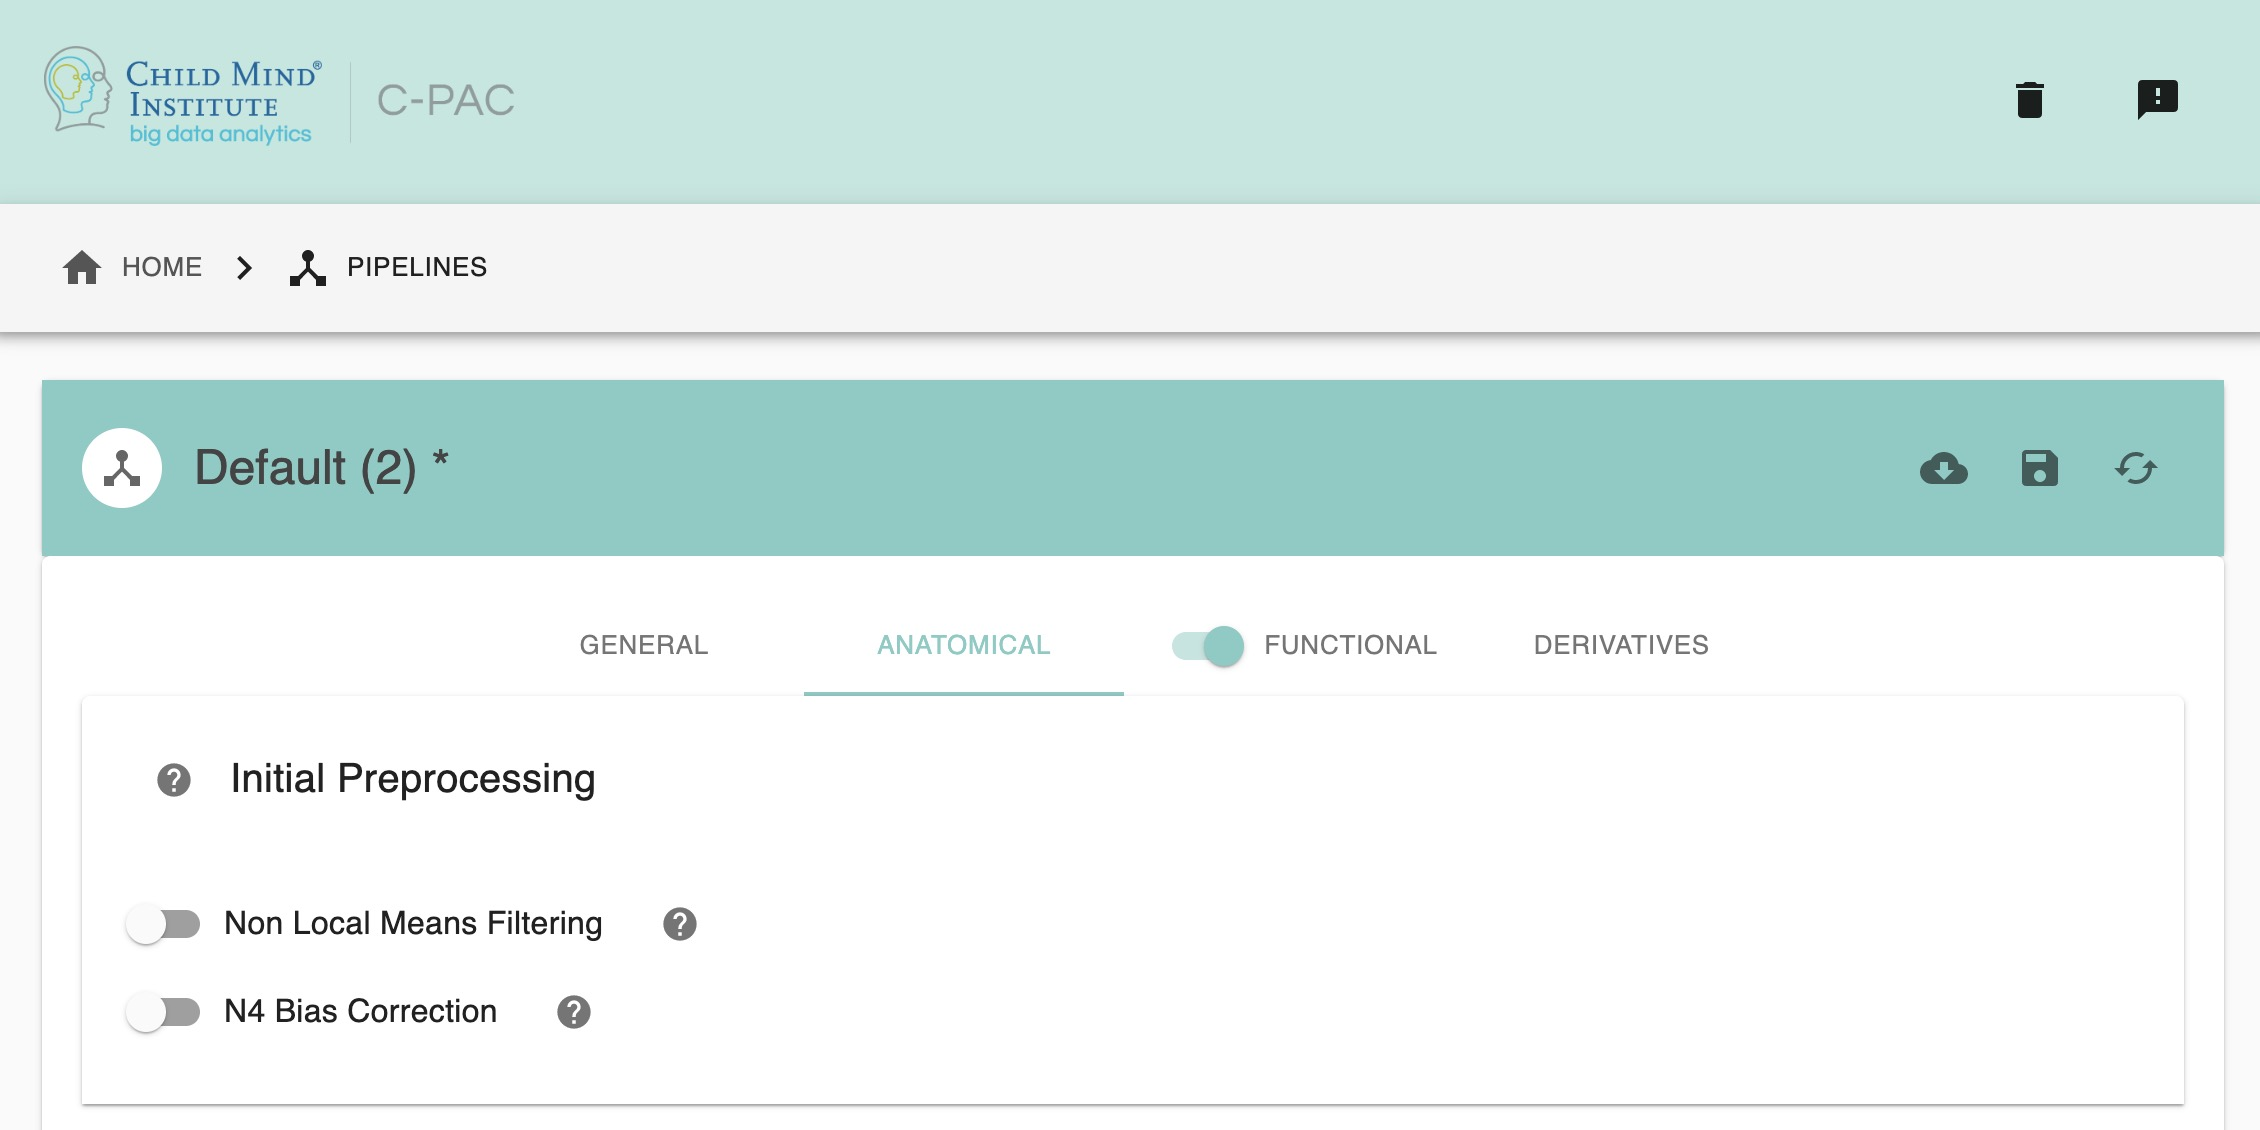
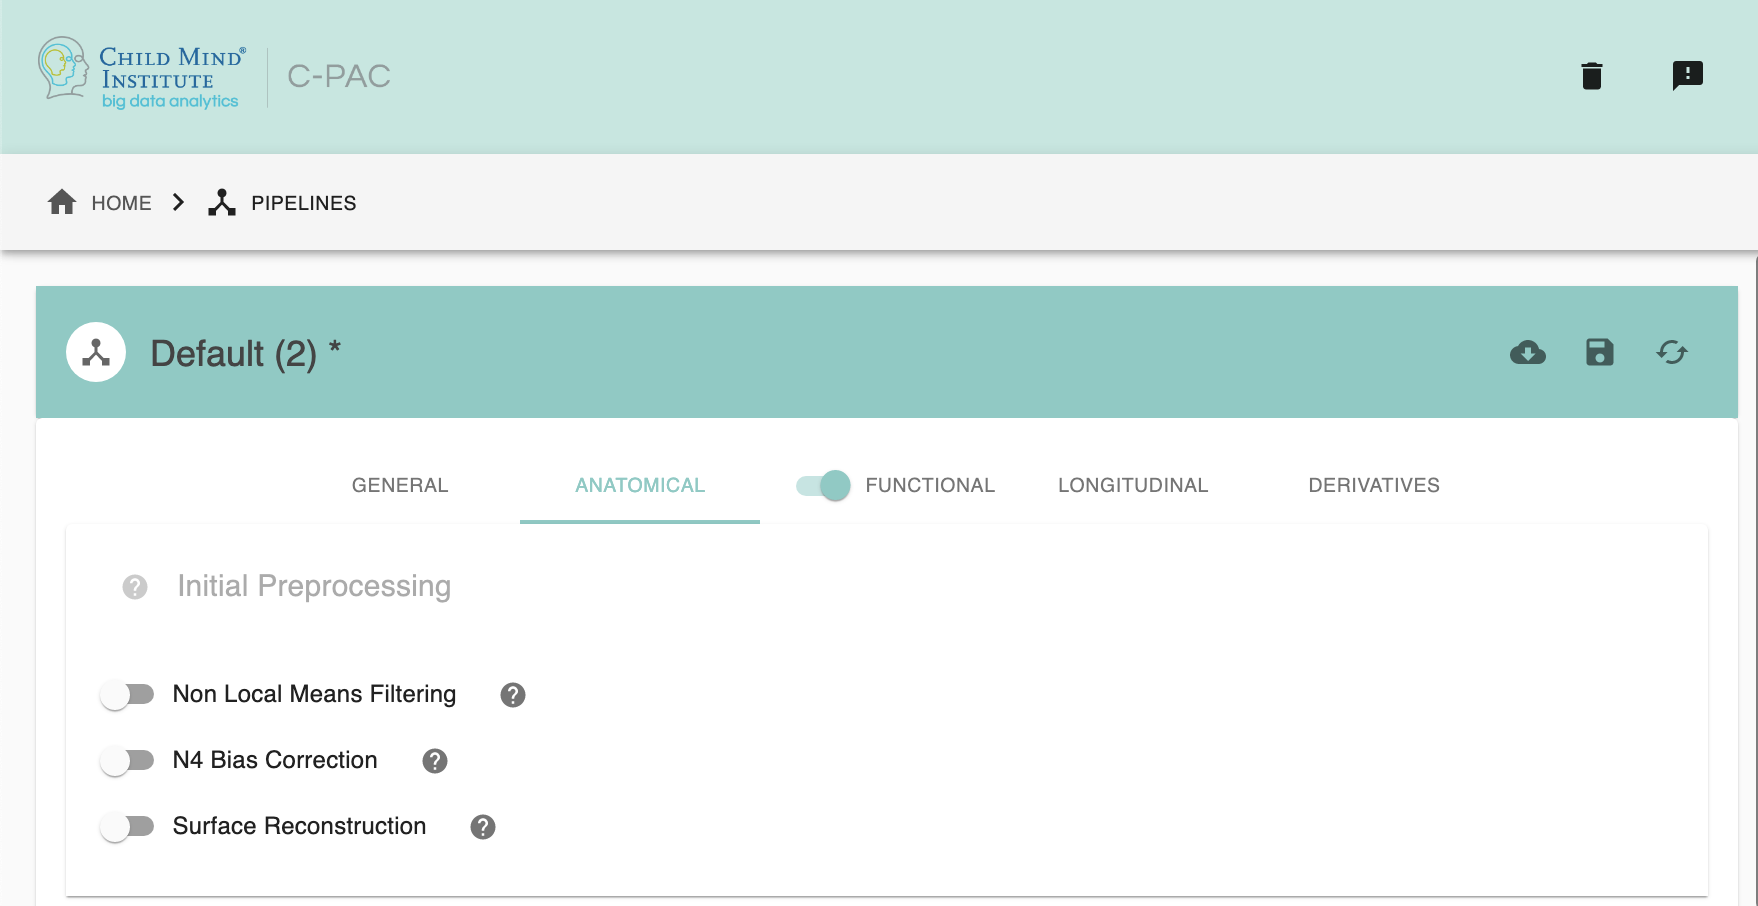
add surface option for initial, skullstrip, bbr wm source

diff --git a/docs/_sources/user/anat.rst b/docs/_sources/user/anat.rst
@@ -8,13 +8,13 @@
 Initial Preprocessing
 ^^^^^^^^^^^^^^^^^^^^^
 
-Initial preprocessing offers methods like `non-local means filtering <https://www.iro.umontreal.ca/~mignotte/IFT6150/Articles/Buades-NonLocal.pdf>`_ and `N4 bias field correction <https://www.ncbi.nlm.nih.gov/pmc/articles/PMC3071855/>`_ to preprocess anatomical images.
+Initial preprocessing offers methods like `non-local means filtering <https://www.iro.umontreal.ca/~mignotte/IFT6150/Articles/Buades-NonLocal.pdf>`_ , `N4 bias field correction <https://www.ncbi.nlm.nih.gov/pmc/articles/PMC3071855/>`_ and `Surface Reconstruction <https://pdfs.semanticscholar.org/0554/11f28a5e28c46c3f0079d397783afc721021.pdf>`_ to preprocess anatomical images.
 
 C-PAC provides options for configuring initial preprocessing - users can select:
 
 * `ANT's DenoiseImage <https://manpages.debian.org/experimental/ants/DenoiseImage.1.en.html>`_
 * `ANT's N4BiasFieldCorrection <http://manpages.ubuntu.com/manpages/trusty/man1/N4BiasFieldCorrection.1.html>`_
-
+* `FreeSurfer cortical reconstruction <https://surfer.nmr.mgh.harvard.edu/fswiki/recon-all>`_
 
 Configuring CPAC to run initial preprocessing:
 """"""""""""""""""""""""""""""""""""""""""""""
@@ -25,6 +25,7 @@ Configuring CPAC to run initial preprocessing:
 
 #. **N4 Bias Field Correction - [On,Off]:** ANTs N4BiasFieldCorrection - a variant of the popular N3 (nonparametric nonuniform normalization) retrospective bias correction algorithm. Default is Off.
 
+#. **Surface Reconstruction - [On,Off]:** FreeSurfer Cortical Surface Reconstruction - generate surface meshes from FreeSurfer. Default is Off.
 
 Skull-Stripping
 ^^^^^^^^^^^^^^^
@@ -36,6 +37,7 @@ C-PAC provides options for configuring skull-stripping - users can select:
 * FSL: `BET <https://fsl.fmrib.ox.ac.uk/fsl/fslwiki/BET/UserGuide>`_. Further parameters for each of these tools are configurable.
 * niworkflows-ants: `niworkflows's antsBrainExtraction <https://github.com/poldracklab/niworkflows/blob/master/niworkflows/anat/ants.py>`_
 * U-Net: U-Net is a Fully Convolutional Network (FCN) for image segmentation. Users can now select this option for brain extraction, especially optimal for non-human primate data.
+* FreeSurfer: `recon-all <https://surfer.nmr.mgh.harvard.edu/fswiki/recon-all>`_ -autorecon1 performs surface-based skull-stripping.
 * Providing their own brain mask for extraction
 
 Configuring CPAC to run Skull-Stripping:
@@ -47,7 +49,7 @@ Configuring CPAC to run Skull-Stripping:
 
 #. **Already skull-stripped - [On,Off]:** If inputs are already skull stripped (i.e. the structural input data is brain-only) then you can toggle this option to off.
 
-#. **Which tool for skull-stripping - [FSL, AFNI, niworkflows-ants]:** Choose if you’d like to use FSL BET, AFNI 3dSkullStrip, or run all options in parallel.
+#. **Which tool for skull-stripping - [FSL, AFNI, niworkflows-ants, U-Net, FreeSurfer]:** Choose if you’d like to use FSL BET, AFNI 3dSkullStrip, niworkflows-ants, U-Net, FreeSurfer or run all options in parallel.
 
 Configuring AFNI 3dSkullStrip options:
 """"""""""""""""""""""""""""""""""""""
@@ -335,15 +337,15 @@ Configuring CPAC to Run Anatomical Tissue Segmentation
 
 #. **The atlas segmentation images - [path]:** The number of specified segmentations should be identical to the number of atlas brain images. Clicking on the *+* icon to the right of the box here will bring up a dialog where you can define multiple paths to NifTIs containing the atlas segmentation image.  You may add multiple images to the box.  
 
-#. **CSF Label Value - [integer]:** Label value corresponding to CSF in multiatlas file. It is not necessary to change this values unless your CSF/GM/WM label values are different from `Freesurfer Color Lookup Table. <https://surfer.nmr.mgh.harvard.edu/fswiki/FsTutorial/AnatomicalROI/FreeSurferColorLUT>`_
+#. **CSF Label Value - [integer]:** Label value corresponding to CSF in multiatlas file. It is not necessary to change this values unless your CSF/GM/WM label values are different from `FreeSurfer Color Lookup Table. <https://surfer.nmr.mgh.harvard.edu/fswiki/FsTutorial/AnatomicalROI/FreeSurferColorLUT>`_
 
-#. **Left Gray Matter Label Value - [integer]:** Label value corresponding to Left Gray Matter in multiatlas file. It is not necessary to change this values unless your CSF/GM/WM label values are different from `Freesurfer Color Lookup Table. <https://surfer.nmr.mgh.harvard.edu/fswiki/FsTutorial/AnatomicalROI/FreeSurferColorLUT>`_
+#. **Left Gray Matter Label Value - [integer]:** Label value corresponding to Left Gray Matter in multiatlas file. It is not necessary to change this values unless your CSF/GM/WM label values are different from `FreeSurfer Color Lookup Table. <https://surfer.nmr.mgh.harvard.edu/fswiki/FsTutorial/AnatomicalROI/FreeSurferColorLUT>`_
 
-#. **Right Gray Matter Label Value - [integer]:** Label value corresponding to Right Gray Matter in multiatlas file. It is not necessary to change this values unless your CSF/GM/WM label values are different from `Freesurfer Color Lookup Table. <https://surfer.nmr.mgh.harvard.edu/fswiki/FsTutorial/AnatomicalROI/FreeSurferColorLUT>`_
+#. **Right Gray Matter Label Value - [integer]:** Label value corresponding to Right Gray Matter in multiatlas file. It is not necessary to change this values unless your CSF/GM/WM label values are different from `FreeSurfer Color Lookup Table. <https://surfer.nmr.mgh.harvard.edu/fswiki/FsTutorial/AnatomicalROI/FreeSurferColorLUT>`_
 
-#. **Left White Matter Label Value - [integer]:** Label value corresponding to Left White Matter in multiatlas file. It is not necessary to change this values unless your CSF/GM/WM label values are different from `Freesurfer Color Lookup Table. <https://surfer.nmr.mgh.harvard.edu/fswiki/FsTutorial/AnatomicalROI/FreeSurferColorLUT>`_
+#. **Left White Matter Label Value - [integer]:** Label value corresponding to Left White Matter in multiatlas file. It is not necessary to change this values unless your CSF/GM/WM label values are different from `FreeSurfer Color Lookup Table. <https://surfer.nmr.mgh.harvard.edu/fswiki/FsTutorial/AnatomicalROI/FreeSurferColorLUT>`_
 
-#. **Right White Matter Label Value - [integer]:** Label value corresponding to Right White Matter in multiatlas file. It is not necessary to change this values unless your CSF/GM/WM label values are different from `Freesurfer Color Lookup Table. <https://surfer.nmr.mgh.harvard.edu/fswiki/FsTutorial/AnatomicalROI/FreeSurferColorLUT>`_
+#. **Right White Matter Label Value - [integer]:** Label value corresponding to Right White Matter in multiatlas file. It is not necessary to change this values unless your CSF/GM/WM label values are different from `FreeSurfer Color Lookup Table. <https://surfer.nmr.mgh.harvard.edu/fswiki/FsTutorial/AnatomicalROI/FreeSurferColorLUT>`_
 
 
 Configuration Without the GUI

diff --git a/docs/_sources/user/func.rst b/docs/_sources/user/func.rst
@@ -192,6 +192,8 @@ Functional to Anatomical Registration
 
 #. **Functional Volume to Use as Input (Selected Functional Volume only) - [integer]:** Only for when 'Use as Functional-to-Anatomical Registration Input' is set to 'Selected Functional Volume'. Input the index of which volume from the functional 4D timeseries input file you wish to use as the input for functional-to-anatomical registration.
 
+#. **BB Registration White Matter Source - [FSL: FAST, FreeSurfer: recon-all]:** Choose whether to use the `FSL(FAST) <https://fsl.fmrib.ox.ac.uk/fsl/fslwiki/FAST>`_ generated White Matter as the Boundary-Based Registration White Matter Source or `FreeSurfer(recon-all) <https://surfer.nmr.mgh.harvard.edu/fswiki/recon-all>`_ generated White Matter.
+
 #. **Functional Masking - [AFNI, FSL, FSL_AFNI, Anatomical_Refined]:** Choose which tool to be used in functional masking - AFNI (3dAutoMask), FSL (BET), FSL_AFNI (BET+3dAutoMask) or Anatomical_Refined (generate functional mask by registering anatomical mask to functional space). Default is AFNI.
 
 Configuring FSL BET options:
@@ -247,6 +249,7 @@ The box below contains an example of what these parameters might look like when 
     boundaryBasedRegistrationSchedule : /usr/share/fsl/5.0/etc/flirtsch/bbr.sch
     func_reg_input :  ['Mean Functional']
     func_reg_input_volume :  0
+    BBR_WM_source : ['FSL']
     functionalMasking: ['AFNI']
 
 Functional to Template Registration
